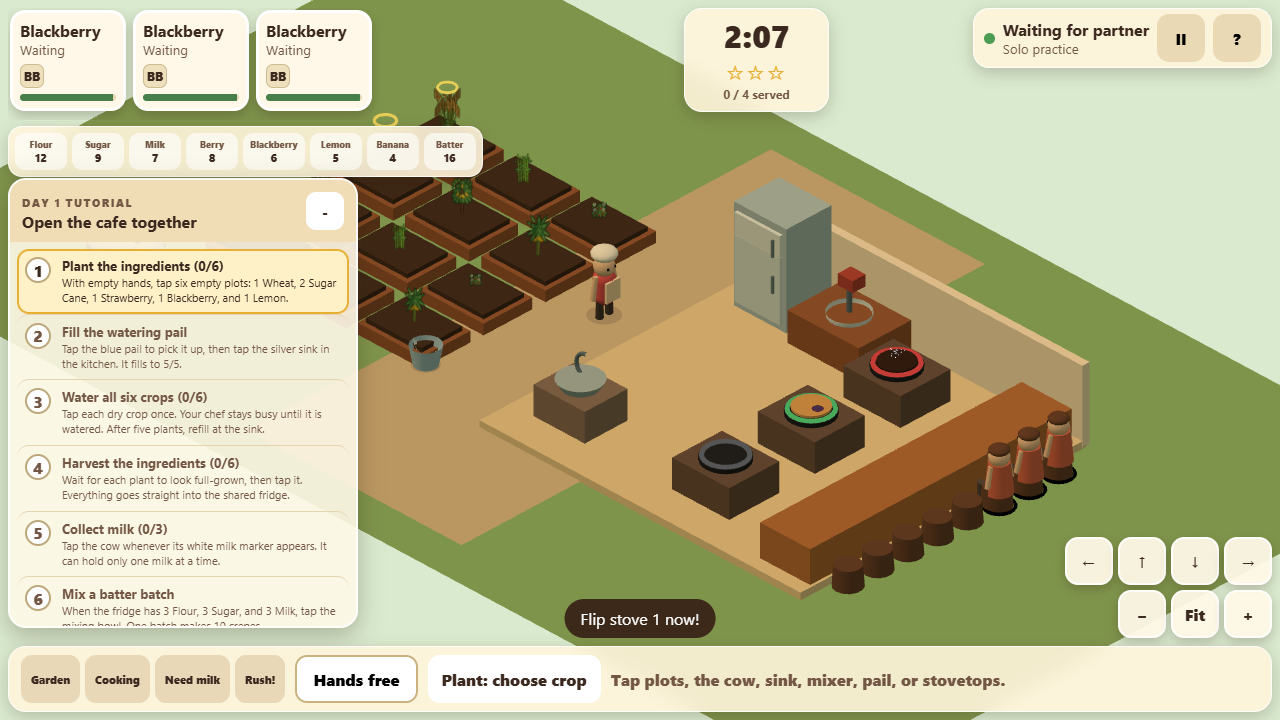
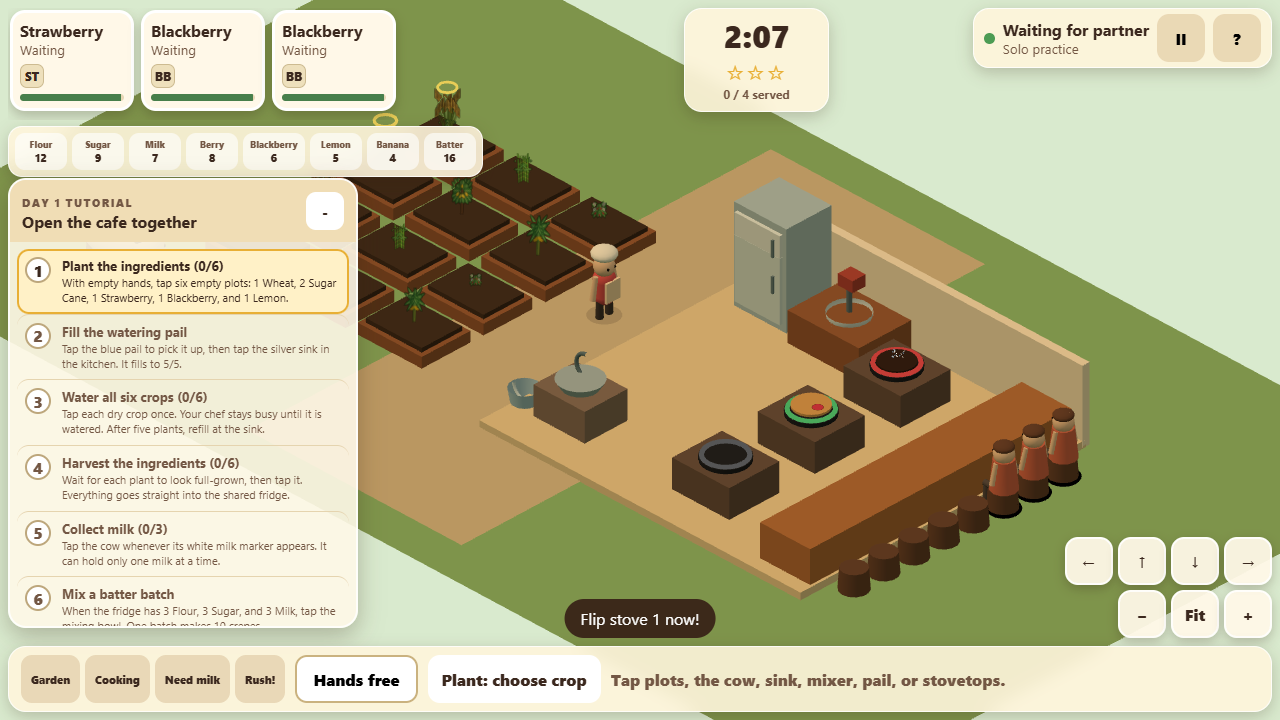
fix: correct customer seating and ticket taps

diff --git a/public/js/render3d.js b/public/js/render3d.js
@@ -207,7 +207,7 @@ export class Render3D {
     handle.rotation.z = Math.PI;
     handle.position.y = 0.72;
     pail.add(handle);
-    pail.position.set(-4.3, 0, 4.7);
+    pail.position.set(-0.55, 0, 4.3);
     this._target(bucket, { type: 'pail', id: 'pail' });
     pail.userData.bucket = bucket;
     this.targets.set('pail-group', pail);
@@ -583,9 +583,15 @@ export class Render3D {
     const service = mesh(new THREE.BoxGeometry(2.1, 1.5, 11), 0xb87643);
     service.position.set(11.6, 0.75, 0);
     this.scene.add(service);
+    const stoolX = 13.45;
+    const customerX = 13.5;
+    this.customerSeatX = customerX;
     const stools = new THREE.InstancedMesh(new THREE.CylinderGeometry(0.45, 0.5, 0.75, 14), material(0x6d4a35), 8);
+    this.customerStoolPositions = [];
     for (let index = 0; index < 8; index += 1) {
-      stools.setMatrixAt(index, new THREE.Matrix4().makeTranslation(13.2, 0.38, -4.3 + index * 1.25));
+      const position = new THREE.Vector3(stoolX, 0.38, -4.3 + index * 1.25);
+      stools.setMatrixAt(index, new THREE.Matrix4().makeTranslation(position.x, position.y, position.z));
+      this.customerStoolPositions.push(position);
     }
     this.scene.add(stools);
   }
@@ -608,7 +614,7 @@ export class Render3D {
     bodyMesh.frustumCulled = headMesh.frustumCulled = hairMesh.frustumCulled = armMesh.frustumCulled = legMesh.frustumCulled = shinMesh.frustumCulled = eyeMesh.frustumCulled = false;
     for (let index = 0; index < 8; index += 1) {
       this.customerViews.push({
-        position: new THREE.Vector3(13.3, 0, -4.3 + index * 1.25),
+        position: new THREE.Vector3(this.customerSeatX, 0, -4.3 + index * 1.25),
         rotationY: -Math.PI / 2,
         scale: 0,
         visible: false,
@@ -869,7 +875,7 @@ export class Render3D {
       pail.position.lerp(avatar.position.clone().add(handOffset), 0.28);
       pail.rotation.y += (avatar.rotationY - pail.rotation.y) * 0.25;
     } else {
-      pail.position.lerp(new THREE.Vector3(-4.3, 0, 4.7), 0.18);
+      pail.position.lerp(new THREE.Vector3(-0.55, 0, 4.3), 0.18);
     }
 
     for (const stove of snapshot.stoves) {
@@ -911,7 +917,7 @@ export class Render3D {
         this._setInstance(this.patienceRings, index, new THREE.Vector3(0, -100, 0), 0);
         return;
       }
-      const targetX = order.status === 'eating' ? 12.55 : 13.3;
+      const targetX = 13.5;
       view.position.x += (targetX - view.position.x) * 0.08;
       view.rotationY = -Math.PI / 2;
       view.scale = order.status === 'eating' ? 1.06 : 1;
@@ -962,24 +968,24 @@ export class Render3D {
       const bounce = this.reducedMotion ? 0 : Math.sin(now * (eating ? 8 : 3) + index) * (eating ? 0.055 : 0.018);
       const quaternion = new THREE.Quaternion().setFromAxisAngle(yAxis, view.rotationY);
       bodyMesh.setMatrixAt(index, new THREE.Matrix4().compose(
-        new THREE.Vector3(view.position.x, 1.08 + bounce, view.position.z),
+        new THREE.Vector3(view.position.x, 1.28 + bounce, view.position.z),
         quaternion,
         new THREE.Vector3(scale, scale, scale)
       ));
       headMesh.setMatrixAt(index, new THREE.Matrix4().compose(
-        new THREE.Vector3(view.position.x, 1.78 + bounce, view.position.z),
+        new THREE.Vector3(view.position.x, 1.98 + bounce, view.position.z),
         quaternion,
         new THREE.Vector3(scale, scale, scale)
       ));
       hairMesh.setMatrixAt(index, new THREE.Matrix4().compose(
-        new THREE.Vector3(view.position.x, 2.02 + bounce, view.position.z),
+        new THREE.Vector3(view.position.x, 2.22 + bounce, view.position.z),
         quaternion,
         new THREE.Vector3(scale * 0.94, scale * 0.43, scale * 0.94)
       ));
       for (let side = 0; side < 2; side += 1) {
         const armIndex = index * 2 + side;
         const sideSign = side === 0 ? -1 : 1;
-        const local = new THREE.Vector3(sideSign * 0.42, 1.22, eating ? 0.22 : 0).applyAxisAngle(yAxis, view.rotationY);
+        const local = new THREE.Vector3(sideSign * 0.42, 1.42, eating ? 0.28 : 0).applyAxisAngle(yAxis, view.rotationY);
         const armSwing = this.reducedMotion ? 0
           : eating ? Math.sin(now * 9 + side * Math.PI) * 0.45 : Math.sin(now * 3 + index) * 0.08;
         const armQuat = new THREE.Quaternion().setFromEuler(new THREE.Euler(armSwing, 0, sideSign * 0.22));
@@ -989,7 +995,7 @@ export class Render3D {
           armQuat,
           new THREE.Vector3(scale, scale, scale)
         ));
-        const legLocal = new THREE.Vector3(sideSign * 0.2, 0.69, 0.31).applyAxisAngle(yAxis, view.rotationY);
+        const legLocal = new THREE.Vector3(sideSign * 0.2, 0.78, 0.28).applyAxisAngle(yAxis, view.rotationY);
         const thighQuaternion = new THREE.Quaternion().setFromEuler(new THREE.Euler(Math.PI / 2, 0, 0));
         thighQuaternion.premultiply(quaternion);
         legMesh.setMatrixAt(armIndex, new THREE.Matrix4().compose(
@@ -997,13 +1003,13 @@ export class Render3D {
           thighQuaternion,
           new THREE.Vector3(scale, scale, scale)
         ));
-        const shinLocal = new THREE.Vector3(sideSign * 0.2, 0.38, 0.62).applyAxisAngle(yAxis, view.rotationY);
+        const shinLocal = new THREE.Vector3(sideSign * 0.2, 0.43, 0.55).applyAxisAngle(yAxis, view.rotationY);
         shinMesh.setMatrixAt(armIndex, new THREE.Matrix4().compose(
           view.position.clone().add(shinLocal),
           quaternion,
           new THREE.Vector3(scale, scale, scale)
         ));
-        const eyeLocal = new THREE.Vector3(sideSign * 0.14, 1.83 + bounce, 0.3).applyAxisAngle(yAxis, view.rotationY);
+        const eyeLocal = new THREE.Vector3(sideSign * 0.14, 2.03 + bounce, 0.3).applyAxisAngle(yAxis, view.rotationY);
         eyeMesh.setMatrixAt(armIndex, new THREE.Matrix4().compose(
           view.position.clone().add(eyeLocal),
           quaternion,
@@ -1210,7 +1216,7 @@ export class Render3D {
     if (lastAction.kind === 'milk') return new THREE.Vector3(-13.2, 0, 7.1);
     if (lastAction.kind === 'fillPail') return new THREE.Vector3(0.2, 0, 3.8);
     if (lastAction.kind === 'mixBatter') return new THREE.Vector3(3.1, 0, -4.1);
-    if (lastAction.kind === 'pickupPail' || lastAction.kind === 'dropPail') return new THREE.Vector3(-4.5, 0, 4);
+    if (lastAction.kind === 'pickupPail' || lastAction.kind === 'dropPail') return new THREE.Vector3(-1.45, 0, 4.3);
     return null;
   }
 

diff --git a/public/index.html b/public/index.html
@@ -6,7 +6,7 @@
   <meta name="theme-color" content="#493224">
   <title>Garden &amp; Griddle</title>
   <link rel="manifest" href="manifest.webmanifest">
-  <link rel="stylesheet" href="css/style.css?v=123">
+  <link rel="stylesheet" href="css/style.css?v=124">
 </head>
 <body>
   <canvas id="game-canvas" aria-label="Garden and restaurant game"></canvas>
@@ -188,11 +188,11 @@
   <div id="rotate-gate"><div><strong>Turn your phone sideways</strong><span>Garden &amp; Griddle is designed for landscape play.</span></div></div>
   <div id="unsupported" class="unsupported hidden"><h1>WebGL2 is needed</h1><p>Please update Android System WebView or use a newer browser.</p></div>
 
-  <script src="shared/constants.js?v=123"></script>
-  <script src="shared/balance.js?v=123"></script>
-  <script src="shared/rng.js?v=123"></script>
-  <script src="shared/schema.js?v=123"></script>
-  <script src="js/vendor/socket.io.min.js?v=123"></script>
-  <script type="module" src="js/main.js?v=123"></script>
+  <script src="shared/constants.js?v=124"></script>
+  <script src="shared/balance.js?v=124"></script>
+  <script src="shared/rng.js?v=124"></script>
+  <script src="shared/schema.js?v=124"></script>
+  <script src="js/vendor/socket.io.min.js?v=124"></script>
+  <script type="module" src="js/main.js?v=124"></script>
 </body>
 </html>

diff --git a/public/js/ui.js b/public/js/ui.js
@@ -170,7 +170,7 @@ export class UI {
         this.orderNodes.delete(id);
       }
     }
-    for (const order of active) {
+    active.forEach((order, orderIndex) => {
       const recipe = C.RECIPE_BY_ID[order.recipeId];
       let button = this.orderNodes.get(order.id);
       if (!button) {
@@ -210,8 +210,9 @@ export class UI {
         button._gg.recipeId = recipe.id;
       }
       button._gg.fill.style.width = Math.max(0, Math.min(100, left / (order.expiresAt - order.createdAt) * 100)) + '%';
-      holder.appendChild(button);
-    }
+      const currentNode = holder.children[orderIndex];
+      if (currentNode !== button) holder.insertBefore(button, currentNode || null);
+    });
   }
 
   renderResources(snapshot) {

diff --git a/test/android-config.test.js b/test/android-config.test.js
@@ -12,7 +12,7 @@ assert.strictEqual(config.appId, 'com.configmancooper.gardenandgriddle');
 assert.strictEqual(config.webDir, 'public');
 assert.strictEqual(config.server.androidScheme, 'https');
 assert.strictEqual(config.android.allowMixedContent, false);
-assert.match(read('public/shared/constants.js'), /CLIENT_BUILD = '1\.2\.3'/);
+assert.match(read('public/shared/constants.js'), /CLIENT_BUILD = '1\.2\.4'/);
 
 const variables = read('android/variables.gradle');
 assert.match(variables, /minSdkVersion = 24/);
@@ -21,8 +21,8 @@ assert.match(variables, /targetSdkVersion = 36/);
 
 const gradle = read('android/app/build.gradle');
 assert.match(gradle, /applicationId "com\.configmancooper\.gardenandgriddle"/);
-assert.match(gradle, /versionCode 10203/);
-assert.match(gradle, /versionName "1\.2\.3"/);
+assert.match(gradle, /versionCode 10204/);
+assert.match(gradle, /versionName "1\.2\.4"/);
 assert.match(gradle, /signingConfig signingConfigs\.release/);
 
 const manifest = read('android/app/src/main/AndroidManifest.xml');

diff --git a/public/css/style.css b/public/css/style.css
@@ -73,7 +73,7 @@ button { cursor: pointer; }
 #game-top { position: absolute; top: max(8px, env(safe-area-inset-top)); left: max(8px, env(safe-area-inset-left)); right: max(8px, env(safe-area-inset-right)); height: 112px; display: grid; grid-template-columns: minmax(260px, 1fr) auto minmax(180px, .65fr); gap: 10px; pointer-events: none; }
 .orders { display: flex; align-items: flex-start; gap: 7px; overflow-x: auto; padding: 2px; scrollbar-width: none; }
 .orders::-webkit-scrollbar { display: none; }
-.order-ticket { position: relative; min-width: 116px; max-width: 132px; min-height: 92px; border: 3px solid white; border-radius: 15px; background: var(--paper-strong); color: var(--ink); padding: 7px; box-shadow: 0 5px 12px rgba(40,20,10,.24); text-align: left; }
+.order-ticket { position: relative; flex: 0 0 124px; min-width: 124px; max-width: 138px; min-height: 96px; border: 3px solid white; border-radius: 15px; background: var(--paper-strong); color: var(--ink); padding: 7px; box-shadow: 0 5px 12px rgba(40,20,10,.24); text-align: left; touch-action: manipulation; }
 .order-ticket.selected { border-color: var(--gold); transform: translateY(4px); }
 .order-ticket.urgent { border-color: var(--danger); animation: ticket-pulse .8s infinite alternate; }
 .order-ticket small { display: block; color: var(--ink-soft); overflow: hidden; text-overflow: ellipsis; white-space: nowrap; }

diff --git a/public/shared/constants.js b/public/shared/constants.js
@@ -9,7 +9,7 @@
   'use strict';
 
   const PROTOCOL = 1;
-  const CLIENT_BUILD = '1.2.3';
+  const CLIENT_BUILD = '1.2.4';
   const MAX_LEVEL = 50;
   const MAX_PLAYERS = 2;
 

diff --git a/PUBLISHING-ANDROID.md b/PUBLISHING-ANDROID.md
@@ -11,9 +11,9 @@ Run:
 
 The build places these files in `dist\`:
 
-- `GardenAndGriddle-1.2.3-debug.apk`
-- `GardenAndGriddle-1.2.3-release.apk`
-- `GardenAndGriddle-1.2.3-release.aab`
+- `GardenAndGriddle-1.2.4-debug.apk`
+- `GardenAndGriddle-1.2.4-release.apk`
+- `GardenAndGriddle-1.2.4-release.aab`
 
 Upload the `.aab` to Google Play.
 
@@ -22,8 +22,8 @@ Upload the `.aab` to Google Play.
 Create the app as a **paid game** at **$0.99**. A free app cannot later be changed to paid.
 
 - App id: `com.configmancooper.gardenandgriddle`
-- Version code: `10203`
-- Version name: `1.2.3`
+- Version code: `10204`
+- Version name: `1.2.4`
 - Minimum Android: 7.0 / API 24
 - Target Android: API 36
 - Category: Casual